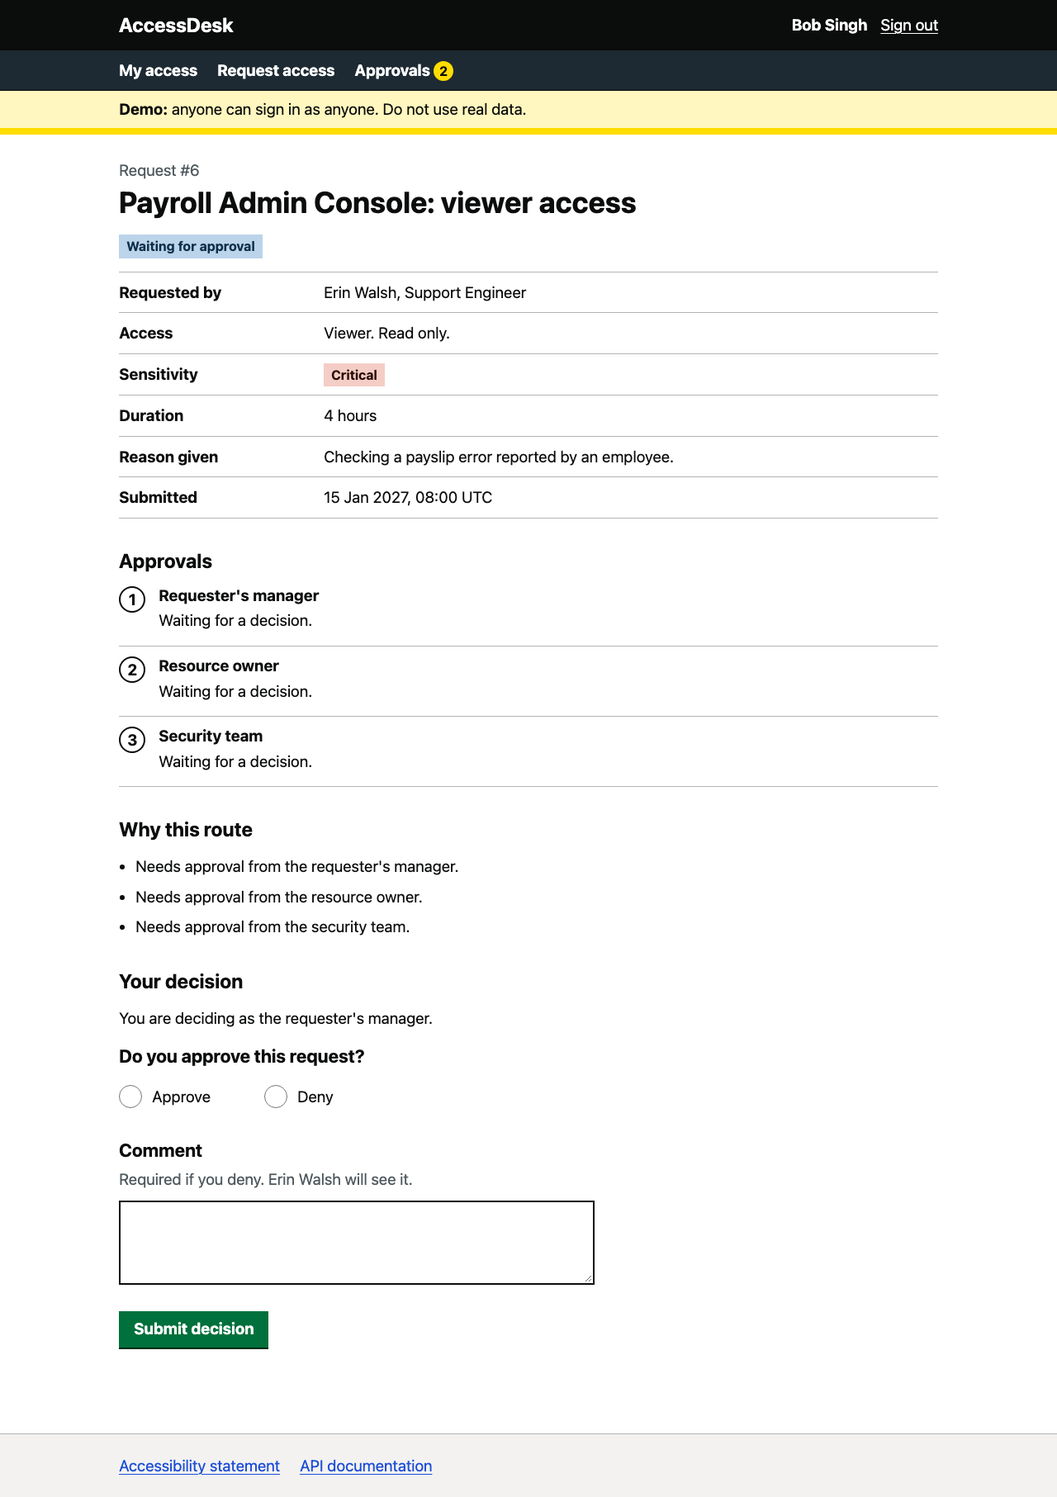
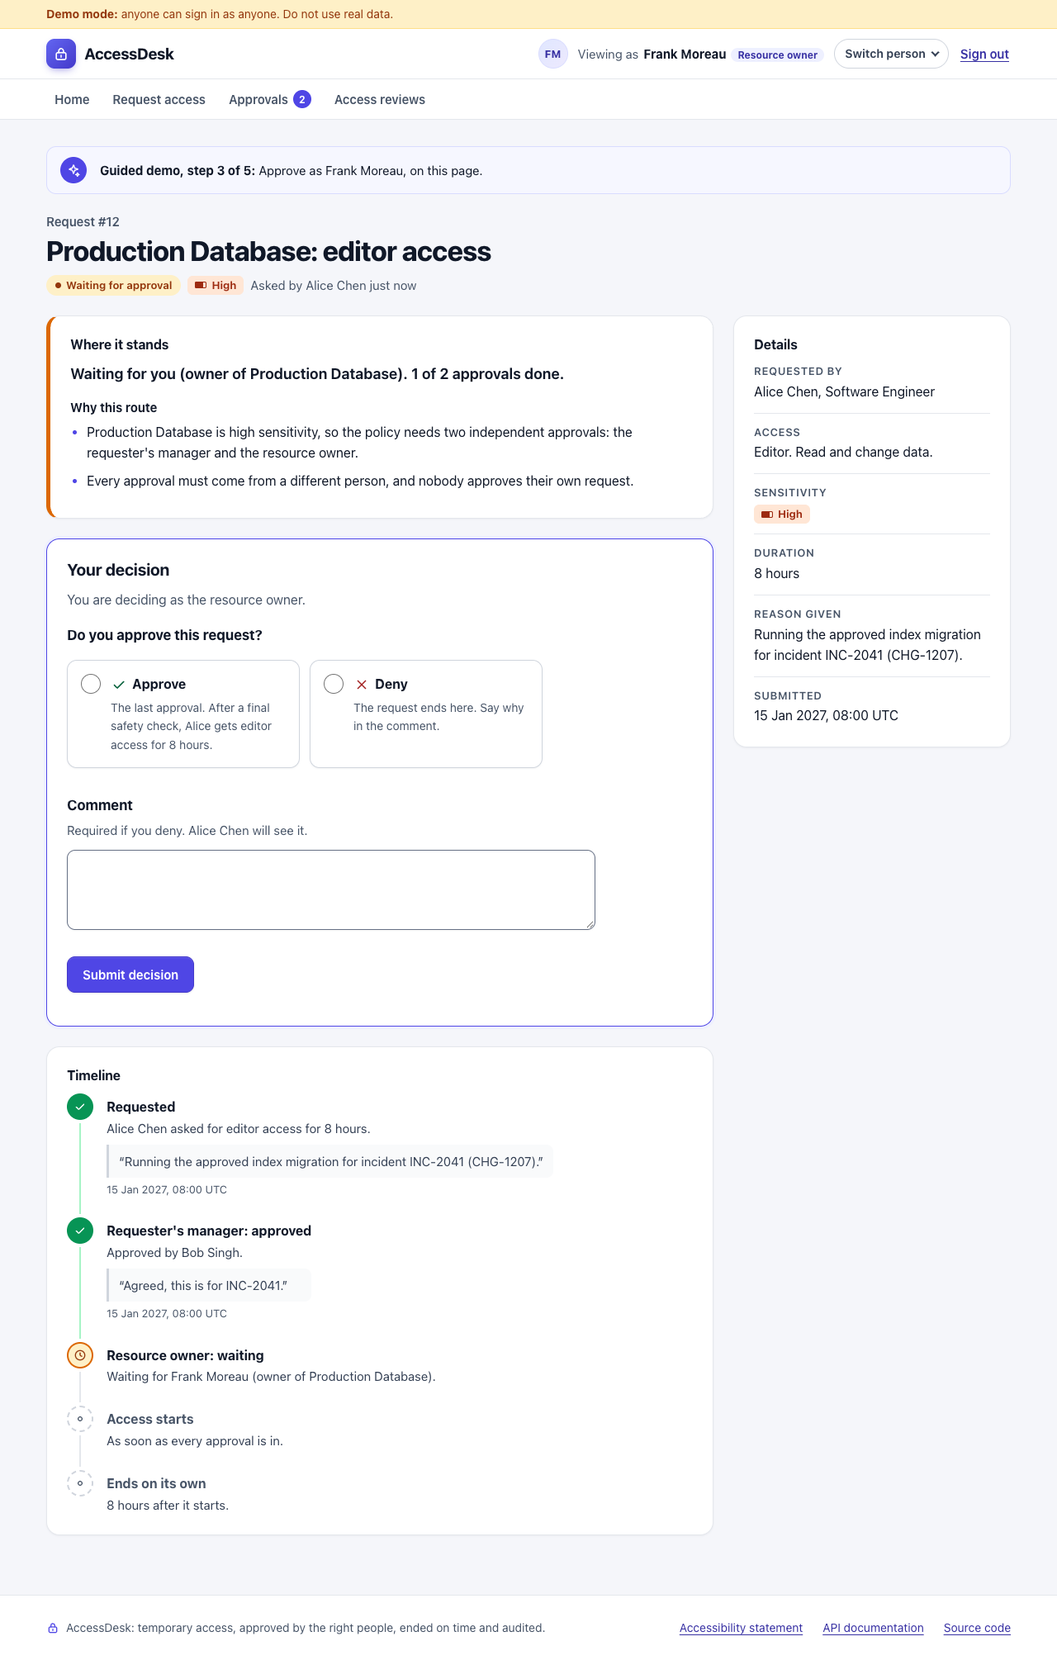
Refresh the README, guide and screenshots for the new UI
- README: new tagline area, Deploy to Render button, a "Try it" section
  with the four personas and the 60-second flow, current test counts.
- GUIDE: persona sign-in, Switch person, the checklist and the request
  and approval screens as they now work.
- scripts/screenshots.py walks the guided demo with its own buttons and
  regenerates every image; old screenshots that no longer match the UI
  (my-access.png, mobile-request.png) are removed.

diff --git a/scripts/screenshots.py b/scripts/screenshots.py
@@ -1,6 +1,10 @@
 """Save README screenshots of the demo, using a real browser against a real server.
 
-Usage:  python scripts/screenshots.py [--channel msedge]   (writes docs/screenshots/*.png)
+It walks the guided demo the way a visitor does, using only its own buttons: the sign-in page, Alice's
+request form, approvals by Bob and Frank, the live access on its timeline and Dan's audit log, plus Alice's
+home page (on a laptop and a phone) part-way through.
+
+Usage:  python scripts/screenshots.py [--channel chrome] [--out docs/screenshots]
 """
 
 from __future__ import annotations
@@ -9,6 +13,7 @@ import argparse
 import sys
 import tempfile
 from pathlib import Path
+from urllib.parse import urlsplit
 
 from playwright.sync_api import Page, sync_playwright
 
@@ -22,21 +27,29 @@ from accessdesk.web.server import background_server
 
 OUT = Path(__file__).resolve().parent.parent / "docs" / "screenshots"
 START = 1_800_000_000  # a fixed time so screenshots do not change between runs
+WHY = "Running the approved index migration for incident INC-2041 (CHG-1207)."
 
 
-def sign_in(page: Page, base: str, user: str) -> None:
-    page.context.clear_cookies()
-    page.goto(f"{base}/signin")
-    page.check(f"#user-{user}")
-    page.get_by_role("button", name="Sign in").click()
-    page.wait_for_url(f"{base}/")
+def continue_as(page: Page, name: str, where: str = ".tour-strip") -> None:
+    """Press the guided demo's "Continue as" button, which switches person and opens the next page."""
+    page.locator(where).get_by_role("button", name=f"Continue as {name}").click()
+    page.wait_for_load_state()
+
+
+def approve(page: Page, comment: str) -> None:
+    page.check("#decision-approve")
+    page.fill("#comment", comment)
+    page.get_by_role("button", name="Submit decision").click()
+    page.wait_for_selector(".notice")
 
 
 def main() -> int:
     parser = argparse.ArgumentParser(description=__doc__)
-    parser.add_argument("--channel", help="installed browser to use, e.g. msedge or chrome")
+    parser.add_argument("--channel", help="installed browser to use, e.g. chrome or msedge")
+    parser.add_argument("--out", type=Path, default=OUT, help="folder for the images")
     args = parser.parse_args()
-    OUT.mkdir(parents=True, exist_ok=True)
+    out: Path = args.out
+    out.mkdir(parents=True, exist_ok=True)
 
     with tempfile.TemporaryDirectory() as folder:
         db = Database(str(Path(folder) / "shots.db"))
@@ -52,33 +65,58 @@ def main() -> int:
         )
         with background_server(create_app(settings, service=service)) as base, sync_playwright() as pw:
             browser = pw.chromium.launch(channel=args.channel)
-            page = browser.new_page(viewport={"width": 1280, "height": 860}, device_scale_factor=1)
+            page = browser.new_page(viewport={"width": 1280, "height": 900}, device_scale_factor=1)
 
-            sign_in(page, base, "alice")
-            page.screenshot(path=OUT / "my-access.png", full_page=True)
-            page.goto(f"{base}/requests/new?resource=prod-db")
-            page.fill("#hours", "48")
+            page.goto(f"{base}/signin")
+            page.screenshot(path=out / "signin.png", full_page=True)
+            page.get_by_role("button", name="Start the guided demo").click()
+            page.wait_for_url(f"{base}/")
+
+            page.locator(".tour-next").get_by_role("link", name="Ask for Production Database").click()
+            page.wait_for_url("**/requests/new?resource=prod-db")
             page.get_by_role("button", name="Send request").click()
             page.wait_for_selector(".error-summary")
-            page.screenshot(path=OUT / "form-errors.png", full_page=True)
+            page.screenshot(path=out / "form-errors.png")
 
-            sign_in(page, base, "bob")
-            page.goto(f"{base}/requests/6")
-            page.screenshot(path=OUT / "approval.png", full_page=True)
+            page.goto(f"{base}/requests/new?resource=prod-db")
+            page.check("#role-editor")
+            page.check("#hours-8")
+            page.fill("#justification", WHY)
+            page.screenshot(path=out / "request-form.png", full_page=True)
+            page.get_by_role("button", name="Send request").click()
+            page.wait_for_selector(".notice")
+            request_url = urlsplit(page.url).path
 
-            sign_in(page, base, "dan")
-            page.goto(f"{base}/audit")
-            page.screenshot(path=OUT / "audit-log.png")
+            continue_as(page, "Bob Singh")
+            approve(page, "Agreed, this is for INC-2041.")
 
-            mobile = browser.new_page(viewport={"width": 360, "height": 780}, device_scale_factor=2)
-            sign_in(mobile, base, "alice")
-            mobile.goto(f"{base}/requests/3")
-            mobile.screenshot(path=OUT / "mobile-request.png")
+            page.locator(".switcher-toggle").click()
+            page.locator(".switcher-panel").get_by_role("button", name="Alice Chen").click()
+            page.wait_for_url(f"{base}/")
+            page.screenshot(path=out / "home.png", full_page=True)
+            mobile = browser.new_page(viewport={"width": 390, "height": 844}, device_scale_factor=2)
+            mobile.context.add_cookies(page.context.cookies())
+            mobile.goto(f"{base}/")
+            mobile.screenshot(path=out / "mobile-home.png")
+            mobile.close()
+
+            continue_as(page, "Frank Moreau", ".tour-next")
+            page.wait_for_url(f"{base}{request_url}")
+            page.screenshot(path=out / "approval.png", full_page=True)
+            approve(page, "OK for the migration window.")
+
+            continue_as(page, "Alice Chen")
+            page.wait_for_url(f"{base}{request_url}")
+            page.screenshot(path=out / "request-timeline.png", full_page=True)
+
+            continue_as(page, "Dan Okafor")
+            page.wait_for_url(f"{base}/audit")
+            page.screenshot(path=out / "audit-log.png")
             browser.close()
         db.close()
 
-    for shot in sorted(OUT.glob("*.png")):
-        print(f"{shot.relative_to(OUT.parent.parent)}  {shot.stat().st_size // 1024} KB")
+    for shot in sorted(out.glob("*.png")):
+        print(f"{shot}  {shot.stat().st_size // 1024} KB")
     return 0
 
 

diff --git a/README.md b/README.md
@@ -1,16 +1,60 @@
 # AccessDesk
 
-**Accessible, just-in-time access requests for employees.** People ask for temporary access to internal
-systems, the right approvers say yes or no, access ends on its own, and every change lands in a
-tamper-evident audit log.
+**Temporary access to internal systems: approved by the right people, ended on time, audited for good.**
+People ask for just-in-time access, a pure and property-tested policy picks who must approve, four-eyes and
+separation-of-duties rules hold even when approvers race, access ends on its own, and every change lands in
+a tamper-evident audit log. It uses no JavaScript, targets WCAG 2.2 AA and runs under a strict CSP.
 
-**[Read the guide](GUIDE.md)** for how to use it, set up company sign-in, load your directory and run it.
+[![Deploy to Render](https://render.com/images/deploy-to-render-button.svg)](https://render.com/deploy?repo=https://github.com/gargshishirr/accessdesk)
 
 [![CI](https://github.com/gargshishirr/accessdesk/actions/workflows/ci.yml/badge.svg)](https://github.com/gargshishirr/accessdesk/actions/workflows/ci.yml)
 ![Python 3.11 to 3.14](https://img.shields.io/badge/python-3.11%20%7C%203.12%20%7C%203.13%20%7C%203.14-blue)
 ![WCAG 2.2 AA target](https://img.shields.io/badge/WCAG%202.2-AA%20target-yellow)
+![No JavaScript](https://img.shields.io/badge/JavaScript-none-brightgreen)
 
-![Approving a request](docs/screenshots/approval.png)
+![The home dashboard, with the guided 60-second demo two steps in](docs/screenshots/home.png)
+
+**[Read the guide](GUIDE.md)** for how to use it, set up company sign-in, load your directory and run it.
+
+## Try it
+
+Start a demo on your own machine (see [Quick start](#quick-start)), or deploy a free one with the button
+above. The demo has no passwords: **Start the guided demo** on the sign-in page makes you Alice, the
+requester, and four persona cards let you become any main character with one click.
+
+| Person | Role in the demo | What they can do |
+|---|---|---|
+| **Alice Chen** | Requester | Asks for temporary access. Start here. |
+| **Bob Singh** | Manager | Approves requests from Alice and Erin, his team. |
+| **Frank Moreau** | Resource owner | Owns the production database and more; approves access to them and reviews who has it. |
+| **Dan Okafor** | Security reviewer | Approves critical and admin access, reviews everyone's access and reads the audit log. |
+
+Everyone else in the demo company is one radio button away, and **Switch person** in the header changes who
+you are on any page.
+
+**The full flow in 60 seconds.** Alice's home page has a checklist. Each step ticks off from what really
+happened, and its **Continue as** button signs you in as the right person and opens the right page:
+
+1. As Alice, ask for the **Production Database**. Before you send it, the form says who the policy will
+   ask, by name: Bob and Frank (and security as well if you pick admin).
+2. As Bob, her manager, approve it.
+3. As Frank, the owner, give the second, independent approval.
+4. Back as Alice, open the request: the access is live, counting down, and will end on its own.
+5. As Dan, open the audit log: every step is there and the hash chain verifies.
+
+The demo data is a few days of realistic history, so every approver has work waiting, one of Alice's grants
+is about to expire, and the audit log, reviews and dashboards are full from the first click.
+
+| | |
+|---|---|
+| ![Sign-in page with one-click persona cards](docs/screenshots/signin.png) | ![Request form with the approval summary](docs/screenshots/request-form.png) |
+| One click to become any of the four main characters. | Who will approve, by name, for each access level, from the real policy. |
+| ![Approving a request](docs/screenshots/approval.png) | ![A request's timeline after approval](docs/screenshots/request-timeline.png) |
+| The owner's view: where it stands, why, and the decision. | Every step, then the countdown to automatic expiry. |
+| ![Audit log with the verified hash chain](docs/screenshots/audit-log.png) | ![Form errors](docs/screenshots/form-errors.png) |
+| The chain is re-verified every time the log opens. | Every problem is listed, linked to its field and announced. |
+
+<img src="docs/screenshots/mobile-home.png" alt="The home page on a phone" width="300">
 
 ## Why
 
@@ -45,16 +89,16 @@ complete version of that internal tool.
 - **Accessible by default.** It targets WCAG 2.2 AA and uses no JavaScript. Forms use GOV.UK-style error
   summaries, focus is always visible, and pages work at 320 px wide and in Windows high contrast mode.
   See [Accessibility](#accessibility).
+- **Clear at a glance.** A home dashboard shows your access with time-left bars and "expiring soon"
+  warnings, what is waiting for your decision and recent activity in plain words. Request pages show a
+  timeline and explain, in plain English, why the policy chose that route.
+- **A guided demo.** In demo mode only: one-click personas, a person switcher and a checklist that walks
+  through the whole flow in about a minute. None of it exists once single sign-on is on.
 - **A directory you control.** People, managers, resources, owners and separation-of-duties rules load from
   one JSON file. Removing a person ends their sessions, access and pending requests in the same transaction.
 - **Ready to operate.** Other services call `GET /api/v1/check` with an API key (several keys can be live,
   for rotation). There are also `/api/v1/audit/verify`, `/healthz` and Prometheus `/metrics`, server-side
   sessions, rate limits, a strict CSP, security headers, CSRF tokens and open-redirect protection.
-
-| | |
-|---|---|
-| ![Form errors](docs/screenshots/form-errors.png) | ![Audit log](docs/screenshots/audit-log.png) |
-| Every problem is listed, linked to its field and announced. | The audit chain is verified on every view. |
 
 ## Quick start
 
@@ -66,12 +110,9 @@ accessdesk serve                # http://127.0.0.1:8000
 ```
 
 This starts in **demo mode**: a yellow banner says anyone can sign in as anyone, and the first run adds demo
-people, resources and requests. (The [guide](GUIDE.md#set-up-single-sign-on) shows how to switch on company
-sign-in.) Then:
-
-1. Sign in as **Alice Chen** and ask for access to the production database.
-2. Sign in as **Bob Singh** (her manager), then as **Frank Moreau** (the owner), to approve it.
-3. Sign in as **Dan Okafor** (security) to read the audit log.
+people, resources and a few days of requests. Choose **Continue as Alice Chen** and follow the checklist on
+the home page (see [Try it](#try-it)). The [guide](GUIDE.md#set-up-single-sign-on) shows how to switch on
+company sign-in.
 
 Other services ask for decisions over HTTP (interactive docs at `/api/docs` in demo mode):
 
@@ -118,8 +159,9 @@ worker). A [`Dockerfile`](Dockerfile) builds a non-root image that keeps its dat
 
 [`render.yaml`](render.yaml) runs AccessDesk as a public demo on the free plan, with secure cookies and HSTS
 on and a generated session secret and API key (shown in the service's **Environment** tab). Free services
-have no persistent disk, so the database starts again with fresh demo data whenever the service restarts or
-wakes up; they also sleep after 15 idle minutes and take about a minute to wake. For real use, add a
+have no persistent disk, so the database starts again with fresh demo data (and a fresh guided demo)
+whenever the service restarts or wakes up; they also sleep after 15 idle minutes and take about a minute to
+wake. Everyone using one demo site shares its data, so visitors may see each other's requests. For real use, add a
 [persistent disk](https://render.com/docs/disks) and single sign-on as described in
 [the guide](GUIDE.md#run-it-on-render).
 
@@ -166,7 +208,16 @@ or their manager does, security takes the owner's place.
   wait for writers. Slow work, such as re-hashing the audit chain, still uses the thread pool. On one
   client, p50 latency fell from 1.78 ms to 0.97 ms. On 4 workers, throughput rose from 1,592 to 3,389 checks/s.
 - **No JavaScript.** Every action is a form post followed by a redirect. That is the most robust baseline
-  for assistive technology, and it allows a strict CSP (`default-src 'none'`).
+  for assistive technology, and it allows a strict CSP (`default-src 'none'`). The person switcher is a
+  native `<details>` element, and CSS `:has()` highlights radio cards and reveals the "Other" hours box.
+- **Polish without loosening the CSP.** All styling lives in one static stylesheet: time-left bars use
+  5%-step width classes instead of inline styles, icons are inline SVG drawn with presentation attributes,
+  and text uses the system font stack, so the policy needs no `unsafe-inline`, `font-src` or third party.
+- **The guided demo reads real state.** The approval summary on the request form calls the same
+  `policy.evaluate` that submitting does (a test checks they agree, role by role), and the checklist ticks
+  off from the requester's newest high-risk request, so it can never claim a step that did not happen. The
+  last two steps tick only once you open the page they point to (the live access as the requester, the
+  audit log as security); the session remembers just those request numbers, never anything that signs you in.
 - **Sign-in is checked step by step, and sessions live on the server.** A small typed OpenID Connect client
   (`oidc.py`) runs the code flow with PKCE, state and nonce, and checks ID tokens with
   [joserfc](https://jose.authlib.org): asymmetric signatures from the provider's published keys only, then
@@ -199,15 +250,17 @@ Expect different numbers on other machines.
 | `test_audit.py` | Hash chain, and tampering found at the exact entry (edit, delete, relink) | 7 |
 | `test_service.py` | Workflows, expiry, fail-closed re-checks, versions, racing approvers on real threads | 28 |
 | `test_web.py` | Demo sign-in, CSRF, security headers, open redirects, error summaries, the main page flows | 23 |
-| `test_sso.py` | Single sign-on end to end against a fake identity provider: PKCE, state, nonce, 14 kinds of bad ID token, key rotation, verified email, allowed domains, sessions, client authentication, rate limits, logs | 47 |
+| `test_demo.py` | Persona sign-in and switching, the approval summary matching the policy role by role, duration presets, the guided checklist following real state, dashboards, timelines, decision hints, plain-words audit log | 23 |
+| `test_sso.py` | Single sign-on end to end against a fake identity provider: PKCE, state, nonce, 14 kinds of bad ID token, key rotation, verified email, allowed domains, sessions, client authentication, rate limits, logs, and no demo personas, switcher or checklist | 48 |
 | `test_security.py` | Who may approve what, audit log access, people who left, API key rotation, rate limits, client addresses, log redaction | 20 |
 | `test_directory.py` | Directory import and export: adds, audited updates, leavers, retired resources, steps re-routed when nobody else can approve them, every mistake reported | 19 |
 | `test_config.py` | Settings, and every half-done single sign-on setup refused | 22 |
 | `test_api.py` | API key, fail-closed checks, tamper reporting, metrics labels, background sweeper | 6 |
 | `test_cli.py` | `seed`, `verify-audit`, `serve`, `directory` and `backup` commands | 7 |
-| `a11y/test_accessibility.py` | axe-core on 24 pages and states (demo and single sign-on) at two widths, keyboard-only flow, skip link, forced colours | 27 |
+| `a11y/test_accessibility.py` | axe-core on 32 pages and states (demo and single sign-on) at two widths, the guided demo clicked through with axe at every stop, keyboard-only flow, skip link, forced colours | 36 |
 
-All 232 tests pass with 95% branch coverage on Python 3.11 to 3.14. No test needs the internet.
+All 265 tests pass with 96% branch coverage (checked locally on Python 3.11; CI runs 3.11 to 3.14). No test
+needs the internet.
 
 ```bash
 pytest -m "not a11y"                            # fast suite, no browser needed
@@ -217,8 +270,9 @@ ruff check . && ruff format --check . && mypy   # lint, formatting, strict typin
 
 ## Accessibility
 
-AccessDesk targets WCAG 2.2 level AA. Every page and state (24 of them, including error states and the
-single sign-on pages) is scanned with axe-core at 1280 px and 320 px wide. The scan covers WCAG 2.0, 2.1 and
+AccessDesk targets WCAG 2.2 level AA. Every page and state (32 of them, including error states, the open
+person switcher and the single sign-on pages) is scanned with axe-core at 1280 px and 320 px wide, and so is
+every stop of the guided demo. The scan covers WCAG 2.0, 2.1 and
 2.2 A and AA rules plus best-practice rules, and CI fails on any violation. Automated tests also cover:
 
 - requesting and approving access with the keyboard only, with a visible focus indicator at every stop;
@@ -241,7 +295,8 @@ src/accessdesk/
   oidc.py        OpenID Connect client: discovery, PKCE, token exchange, ID token checks
   directory.py   directory file: checks, import (one audited transaction) and export
   config.py      settings and the rules that stop a half-done setup
-  web/           FastAPI pages, sign-in, JSON API, security, rate limits, metrics, templates and CSS
+  web/           FastAPI pages, sign-in, demo personas and guided checklist, JSON API, security,
+                 rate limits, metrics, templates and CSS
 tests/           unit, property, web, sign-in (fake identity provider), API, CLI and browser tests
 scripts/         benchmark and screenshots
 GUIDE.md         how to use, run and look after AccessDesk
@@ -257,6 +312,8 @@ render.yaml      one-click public demo on Render
 - There are no email or chat notifications yet.
 - SQLite suits a single host. Many replicas would need PostgreSQL.
 - Times are shown in UTC only.
+- The guided demo follows the newest high-risk request from the demo's requester, and a public demo's data is
+  shared, so two visitors doing the checklist at once will see each other's steps.
 
 ## License
 

diff --git a/GUIDE.md b/GUIDE.md
@@ -32,22 +32,30 @@ Other systems can ask AccessDesk "does this person have this access right now?" 
 Select **Sign in with your company account**. You sign in on your company's usual page and come straight
 back to AccessDesk.
 
-In **demo mode** a yellow banner says "anyone can sign in as anyone", and you pick a person from a list.
-Demo mode is only for trying AccessDesk, never for real data.
+In **demo mode** a yellow banner says "anyone can sign in as anyone". **Start the guided demo** signs you in
+as the requester, or pick one of the four demo characters (a requester, their manager, a resource owner and a
+security reviewer) with one click, or anyone else from the list below them. **Switch person** in the header
+changes who you are without signing out, and the **Try the full flow in 60 seconds** checklist on the home
+page tells you who to be at each step; its **Continue as** button switches person and opens the right page.
+Demo mode is only for trying AccessDesk, never for real data; none of this exists once single sign-on is on.
 
 ### Asking for access (everyone)
 
-1. Select **Request access** and choose a system.
-2. Choose the lowest level that does the job and the number of hours, and say why you need it.
-3. Select **Send request**. The next page shows who needs to approve it.
+1. Select **Request access** and choose a system. Each card shows its sensitivity, owner and access levels.
+2. Choose the lowest level that does the job, pick a length (or **Other** and type the hours), and say why
+   you need it. **Who will approve this** shows, by name, who the policy will ask for each level, before
+   you send anything.
+3. Select **Send request**. The request page shows a timeline of every step and why the policy chose it.
 
-Low-risk read access for some teams is granted at once. **My access** shows what you have and when it ends.
-Select **Give back now** if you finish early.
+Low-risk read access for some teams is granted at once. **Home** shows what you have, how long it has left
+(with a warning when it is about to end), what is waiting for you and recent activity. Select
+**Give back now** if you finish early.
 
 ### Approving requests (managers and owners)
 
 **Approvals** lists the requests waiting for you. Open one, choose **Approve** or **Deny** and add a comment
-(a comment is needed to deny). Access starts when every approver has said yes.
+(a comment is needed to deny). Each choice says what happens next, for example whether yours is the last
+approval. Access starts when every approver has said yes.
 
 ### Reviewing access (owners and the security team)
 
@@ -56,8 +64,8 @@ Select **Give back now** if you finish early.
 
 ### The audit log (security team)
 
-**Audit log** shows the latest changes and checks the whole hash chain every time it opens. "Chain intact"
-means nothing in the history was changed.
+**Audit log** shows the latest changes in plain words and checks the whole hash chain every time it opens.
+"Chain intact" means nothing in the history was changed.
 
 ### Other services (the API)
 
